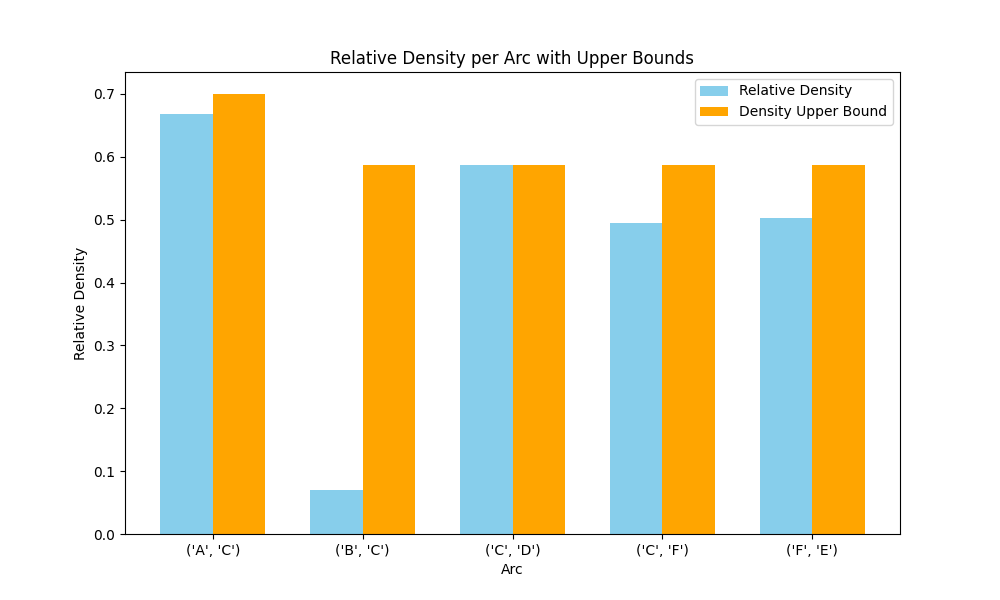
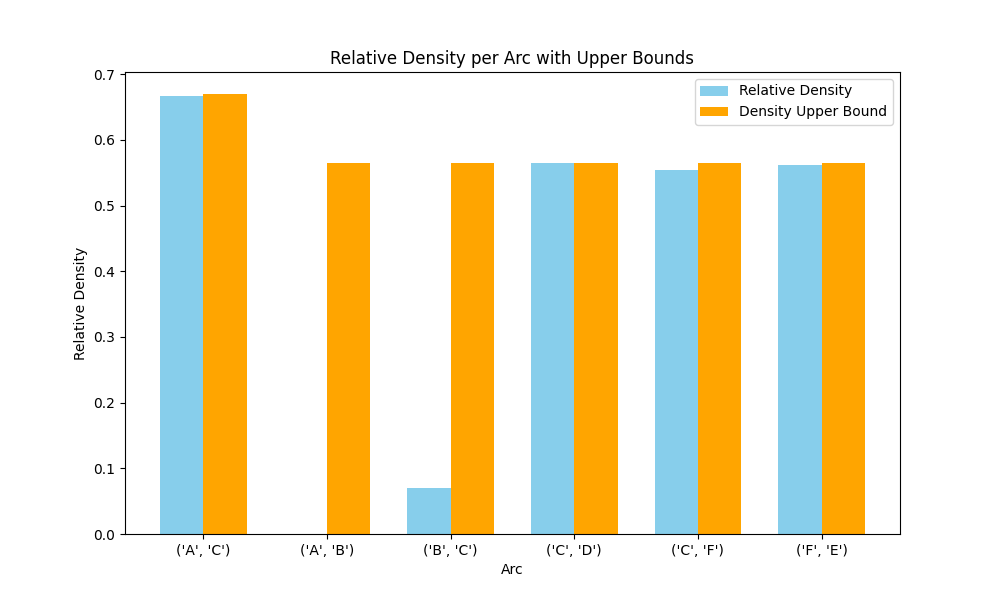
base model update (ik werk niet in het weekend)

diff --git a/base_model.py b/base_model.py
@@ -1,7 +1,7 @@
 from network import example_graph, plot_network
 import matplotlib.pyplot as plt
 import matplotlib
-matplotlib.use('Agg')  # Ensure it works in Codespaces terminal
+#matplotlib.use('Agg')  # Ensure it works in Codespaces terminal
 import pyomo.environ as pyo
 import networkx
 import numpy as np
@@ -45,7 +45,7 @@ def generate_cutting_plane_pairs():
 # Usage
 pairs = generate_cutting_plane_pairs()
 
-NUMBER_OF_DENSITY_BOUNDS = 4
+NUMBER_OF_DENSITY_BOUNDS = 10
 RHO_LOW = 0.55
 RHO_HIGH = 0.70
 
@@ -221,7 +221,7 @@ def create_base_model(network: networkx.Graph):
     # Constraint 1: Production capacity constraint
     def production_capacity_rule(model, n):
         if n in model.N_hg:
-            return sum(model.f[a, c] for a in model.A_n_minus[n] for c in model.C) <= model.G[n]
+            return sum(model.f[a, c] for a in model.A_n_minus[n] for c in model.C) - sum(model.f[a, c] for a in model.A_n_plus[n] for c in model.C) <= model.G[n]
         return pyo.Constraint.Skip
     model.production_capacity = pyo.Constraint(model.N_hg, rule=production_capacity_rule)
 
@@ -318,7 +318,6 @@ def create_base_model(network: networkx.Graph):
     
     model.pressure_drop = pyo.Constraint(model.A, rule=pressure_drop_rule)
 
-
     # Maximum pressure 
     def max_pressure_rule(model, a1, a2):
         return model.p_in[a1, a2] <= model.P_max[a1, a2]
@@ -357,6 +356,12 @@ def create_base_model(network: networkx.Graph):
             return model.p_in[a] <= network.nodes[n]['compression_max']
         return pyo.Constraint.Skip
 
+    model.max_compression = pyo.Constraint(model.N_gamma, rule=max_compression_rule)
+
+
+    # ________________
+    # Quality constraints
+    # ________________
 
     #------------------------------
     # Expressions

diff --git a/network.py b/network.py
@@ -9,7 +9,7 @@ def plot_network(G):
     and arc capacities using only NetworkX attributes.
     """
 
-    pos = nx.spring_layout(G, seed=100)  # For consistent layout across runs
+    pos = nx.spring_layout(G, seed=10012345)  # For consistent layout across runs
 
     # Categorize nodes
     gas_supply_nodes = []
@@ -19,11 +19,11 @@ def plot_network(G):
     normal_nodes = []
 
     for n, data in G.nodes(data=True):
-        if data.get("h2_fraction", 0) > 0:
+        if data.get("component_ratio", {}).get("NG", 0) > 0:
             gas_supply_nodes.append(n)
         elif data.get("supply_capacity", 0) > 0:
             hydrogen_supply_nodes.append(n)
-        elif data.get("demand", 0) > 0:
+        elif any(v > 0 for v in data.get("demand", {}).values()):
             demand_nodes.append(n)
         elif data.get("compression_max", 0) > 0:
             storage_nodes.append(n)
@@ -127,8 +127,10 @@ def example_graph():
     }
 
     edges = [
-        ("A", "C", dict(max_flow=90, max_hydrogen_fraction=0.1,
+        ("A", "C", dict(max_flow=90, max_hydrogen_fraction=0.2,
                         max_inlet_pressure=10, pressure_cost=0.05, weymouth_constant=18)),
+        ("A", "B", dict(max_flow=90, max_hydrogen_fraction=0.2,
+                max_inlet_pressure=10, pressure_cost=0.05, weymouth_constant=18)),
         ("B", "C", dict(max_flow=40, max_hydrogen_fraction=0.15,
                         max_inlet_pressure=9, pressure_cost=0.04, weymouth_constant=18)),
         ("C", "D", dict(max_flow=140, max_hydrogen_fraction=0.05,
